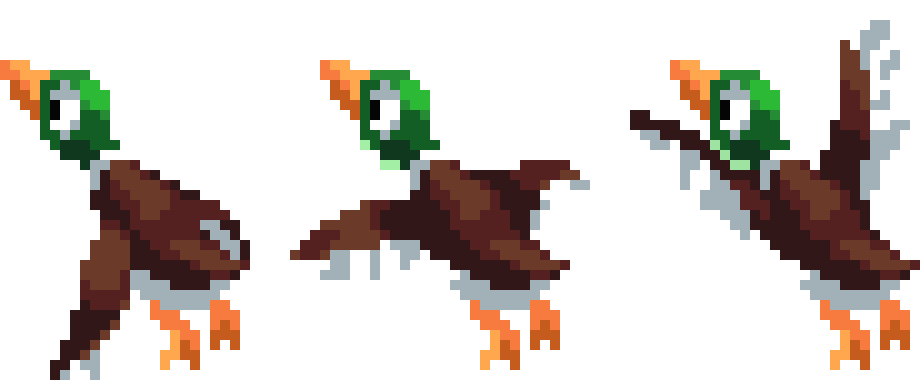
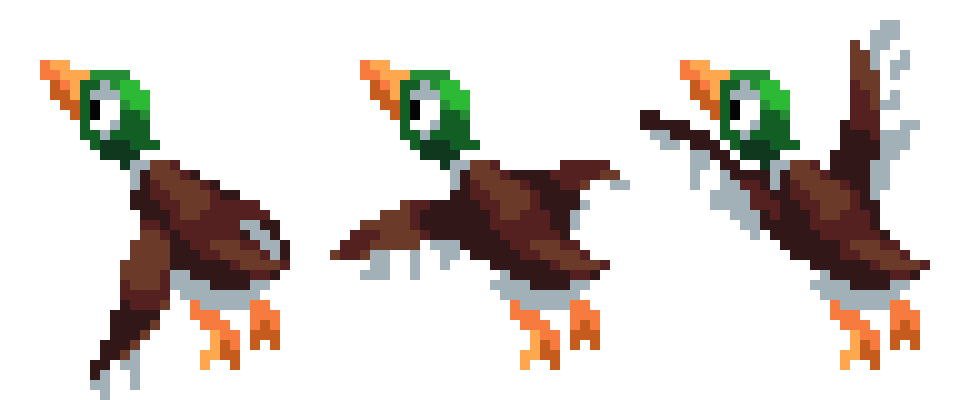
Finished editing duck sprites

diff --git a/spriteTests.js b/spriteTests.js
@@ -1,6 +1,6 @@
 let canvas = document.getElementById("canvas");
-canvas.width = 600;
-canvas.height = 600;
+canvas.width = 900;
+canvas.height = 900;
 let ctx = canvas.getContext("2d");
 sprites = {
   dogwalk: {
@@ -16,49 +16,147 @@ sprites = {
     src: "./images/gducksR.png",
     w:350,
     h:378,
-    f: [0,0,1,1,2,2,1,1,0,0,1,1,2,2,1,1,0,0,1,1,2,2,3,3] 
+    f: [0,0,1,1,2,2,1,1,0,0,1,1,2,2,1,1,0,0,1,1,2,2,3,3],
+    k:'w'
   },
   gducksL:{
     src: "./images/gducksL.png",
     w:350,
     h:378,
-    f: [0,0,1,1,2,2,1,1,0,0,1,1,2,2,1,1,0,0,1,1,2,2,3,3] 
+    f: [0,0,1,1,2,2,1,1,0,0,1,1,2,2,1,1,0,0,1,1,2,2,3,3],
+    k:'w'
   },
   rducksR:{
     src: "./images/rducksR.png",
     w:350,
     h:378,
-    f: [0,0,1,1,2,2,1,1,0,0,1,1,2,2,1,1,0,0,1,1,2,2,3,3] 
+    f: [0,0,1,1,2,2,1,1,0,0,1,1,2,2,1,1,0,0,1,1,2,2,3,3],
+    k:'w'
   },
   rducksL:{
     src: "./images/rducksL.png",
     w:350,
     h:378,
-    f: [0,0,1,1,2,2,1,1,0,0,1,1,2,2,1,1,0,0,1,1,2,2,3,3] 
+    f: [0,0,1,1,2,2,1,1,0,0,1,1,2,2,1,1,0,0,1,1,2,2,3,3],
+    k:'w'
   },
   pducksR:{
     src: "./images/pducksR.png",
     w:350,
     h:378,
-    f: [0,0,1,1,2,2,1,1,0,0,1,1,2,2,1,1,0,0,1,1,2,2,3,3] 
+    f: [0,0,1,1,2,2,1,1,0,0,1,1,2,2,1,1,0,0,1,1,2,2,3,3],
+    k:'w'
   },
   pducksL:{
     src: "./images/pducksL.png",
     w:350,
     h:378,
-    f: [0,0,1,1,2,2,1,1,0,0,1,1,2,2,1,1,0,0,1,1,2,2,3,3] 
+    f: [0,0,1,1,2,2,1,1,0,0,1,1,2,2,1,1,0,0,1,1,2,2,3,3],
+    k:'w'
+  },
+  gducksUpR:{
+    src: "./images/gducksUpR.png",
+    w:320,
+    h:400,
+    f: [0,0,1,1,2,2,1,1],
+    k:'h'
+  },
+  gducksUpL:{
+    src: "./images/gducksUpL.png",
+    w:320,
+    h:400,
+    f: [0,0,1,1,2,2,1,1],
+    k:'h'
+  },
+  rducksUpR:{
+    src: "./images/rducksUpR.png",
+    w:320,
+    h:400,
+    f: [0,0,1,1,2,2,1,1],
+    k:'h'
+  },
+  rducksUpL:{
+    src: "./images/rducksUpL.png",
+    w:320,
+    h:400,
+    f: [0,0,1,1,2,2,1,1],
+    k:'h'
+  },
+  pducksUpR:{
+    src: "./images/pducksUpR.png",
+    w:320,
+    h:400,
+    f: [0,0,1,1,2,2,1,1],
+    k:'h'
+  },
+  pducksUpL:{
+    src: "./images/pducksUpL.png",
+    w:320,
+    h:400,
+    f: [0,0,1,1,2,2,1,1],
+    k:'h'
+  },
+  gduckFlyAway:{
+    src: "./images/gduckFlyAway.png",
+    w:320,
+    h:310,
+    f: [0,0,1,1,2,2,1,1],
+    k:'w'
+  },
+  rduckFlyAway:{
+    src: "./images/rduckFlyAway.png",
+    w:320,
+    h:310,
+    f: [0,0,1,1,2,2,1,1],
+    k:'w'
+  },
+  pduckFlyAway:{
+    src: "./images/pduckFlyAway.png",
+    w:320,
+    h:310,
+    f: [0,0,1,1,2,2,1,1],
+    k:'w'
+  },
+  gducksFalling:{
+    src: "./images/gducksFalling.png",
+    w:200,
+    h:330,
+    f: [0,0,0,1,1,1,2,2,2,3,3,3],
+    k:'h'
+  },
+  rducksFalling:{
+    src: "./images/rducksFalling.png",
+    w:200,
+    h:330,
+    f: [0,0,0,1,1,1,2,2,2,3,3,3],
+    k:'h'
+  },
+  pducksFalling:{
+    src: "./images/pducksFalling.png",
+    w:200,
+    h:330,
+    f: [0,0,0,1,1,1,2,2,2,3,3,3],
+    k:'h'
   }
+
 };
 
 function Horse(x=0,y=0) {
   this.x = x;
   this.y = y;
-  this.w = 131.25
-  this.h = 141.75
+  this.w = 130
+  this.h = 140
   this.image = new Image();
   this.sc = 0;
   this.animate = sprite => {
     this.image.src = sprite.src;
+    if(sprite.k === 'h') {
+      this.h = 140
+      this.w = (this.h*sprite.w)/sprite.h
+    } else if (sprite.k === 'w'){
+      this.w = 130
+      this.h = (this.w*sprite.h)/sprite.w
+    }
     ctx.drawImage(this.image, sprite.w * sprite.f[this.sc], 0, sprite.w, sprite.h, this.x, this.y, this.w, this.h);
     this.sc++;
     if (this.sc >= sprite.f.length) {
@@ -71,6 +169,20 @@ let horse1 = new Horse();
 let horse2 = new Horse(150,0)
 let horse3 = new Horse(300,0)
 let horse4 = new Horse(450,0)
+let horse5 = new Horse(0,150)
+let horse6 = new Horse(150,150)
+let horse7 = new Horse(300,150)
+let horse8 = new Horse(450,150)
+let horse9 = new Horse(0,300)
+let horse10 = new Horse(150,300)
+let horse11 = new Horse(300,300)
+let horse12 = new Horse(450,300)
+let horse13 = new Horse(0,450)
+let horse14 = new Horse(150,450)
+let horse15 = new Horse(300,450)
+let horse16 = new Horse(0,600)
+let horse17 = new Horse(150,600)
+let horse18 = new Horse(300,600)
 
 function start() {
   ctx.clearRect(0, 0, canvas.width, canvas.height);
@@ -78,5 +190,19 @@ function start() {
   horse2.animate(sprites.gducksL);
   horse3.animate(sprites.rducksR);
   horse4.animate(sprites.rducksL);
+  horse5.animate(sprites.pducksR);
+  horse6.animate(sprites.pducksL);
+  horse7.animate(sprites.gducksUpR);
+  horse8.animate(sprites.gducksUpL);
+  horse9.animate(sprites.pducksUpR);
+  horse10.animate(sprites.pducksUpL);
+  horse11.animate(sprites.rducksUpR);
+  horse12.animate(sprites.rducksUpL);
+  horse13.animate(sprites.gduckFlyAway);
+  horse14.animate(sprites.rduckFlyAway);
+  horse15.animate(sprites.pduckFlyAway);
+  horse16.animate(sprites.gducksFalling);
+  horse17.animate(sprites.rducksFalling);
+  horse18.animate(sprites.pducksFalling);
 }
 setInterval(start, 1000 / 20);
